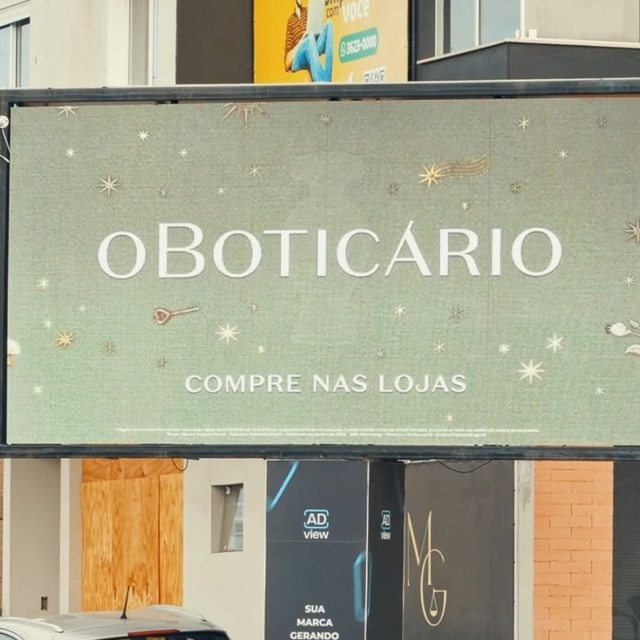
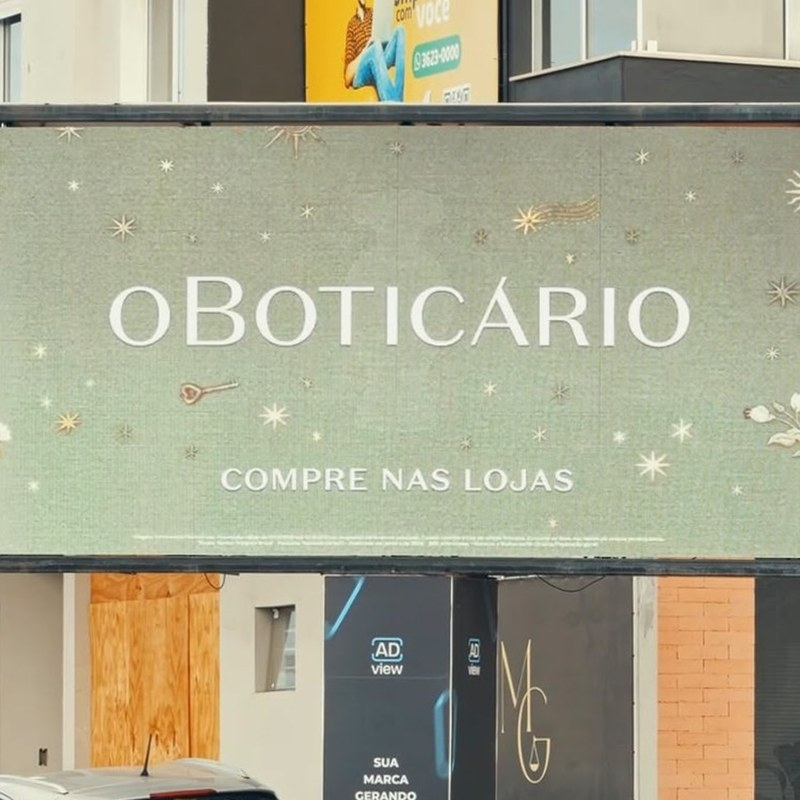
CUBO: fotos endireitadas (LED inteiro, cubo de frente, Boticário sem inclinação, Tubarão com o painel)

diff --git a/cubo/index.html b/cubo/index.html
@@ -436,7 +436,7 @@ figure.ref:hover video,figure.ref:hover img{transform:scale(1.012);box-shadow:0 
       <div class="tile tx"><b>Marco</b><span>um novo símbolo do centro de Tubarão</span></div>
       <figure class="tile im"><img src="g_marco.jpg" alt="CUBO de LED em praça à noite"><figcaption>Referência: RZK Digital</figcaption></figure>
       <div class="tile tx"><b>Noite</b><span>luz e movimento no centro depois que o comércio fecha</span></div>
-      <figure class="tile im"><img src="g_cidade.jpg" alt="Centro de Tubarão visto do alto ao entardecer"><figcaption>Tubarão</figcaption></figure>
+      <figure class="tile im"><img src="g_cidade.jpg" alt="Centro de Tubarão visto do alto ao entardecer"><figcaption>Tubarão · painel de LED da ADmídia</figcaption></figure>
       <div class="tile lg"><img src="logo_v.png" alt="ADmídia"></div>
       <figure class="tile im"><img src="g_sp.jpg" alt="CUBO de LED em São Paulo"><figcaption>Referência: RZK Digital, SP</figcaption></figure>
       <div class="tile tx"><b>Inédito</b><span>formato das capitais, o primeiro da região</span></div>
